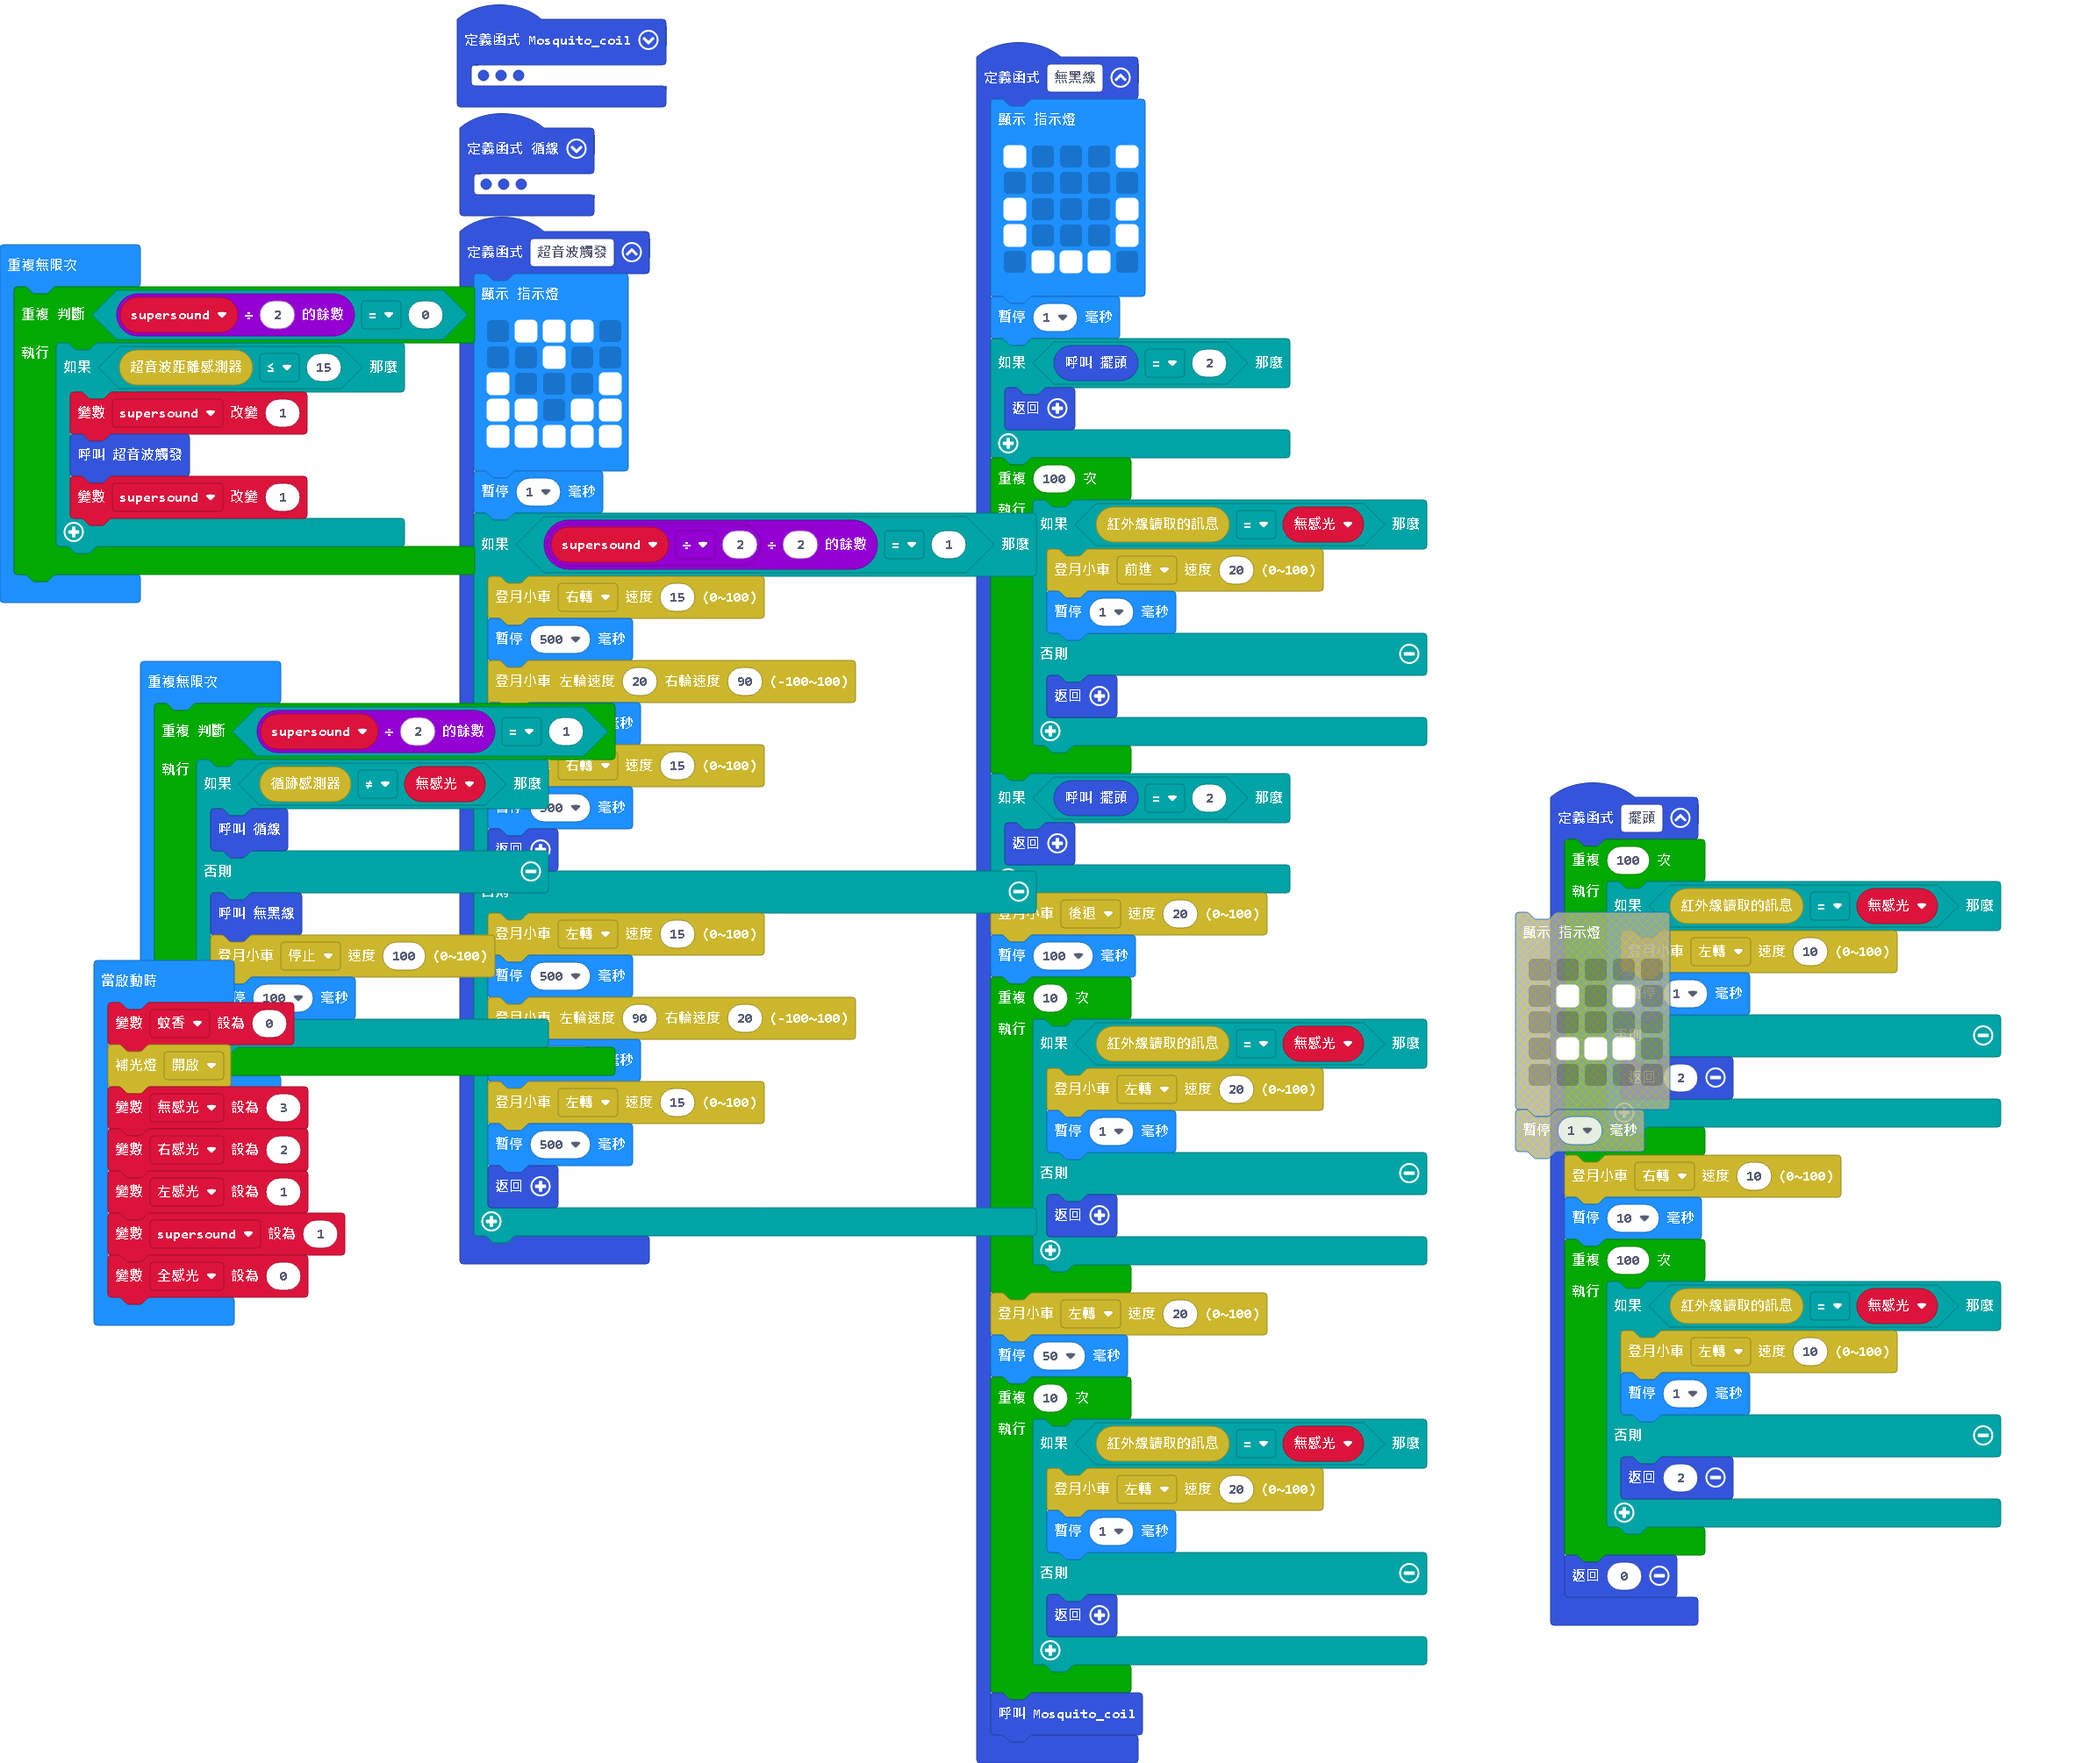
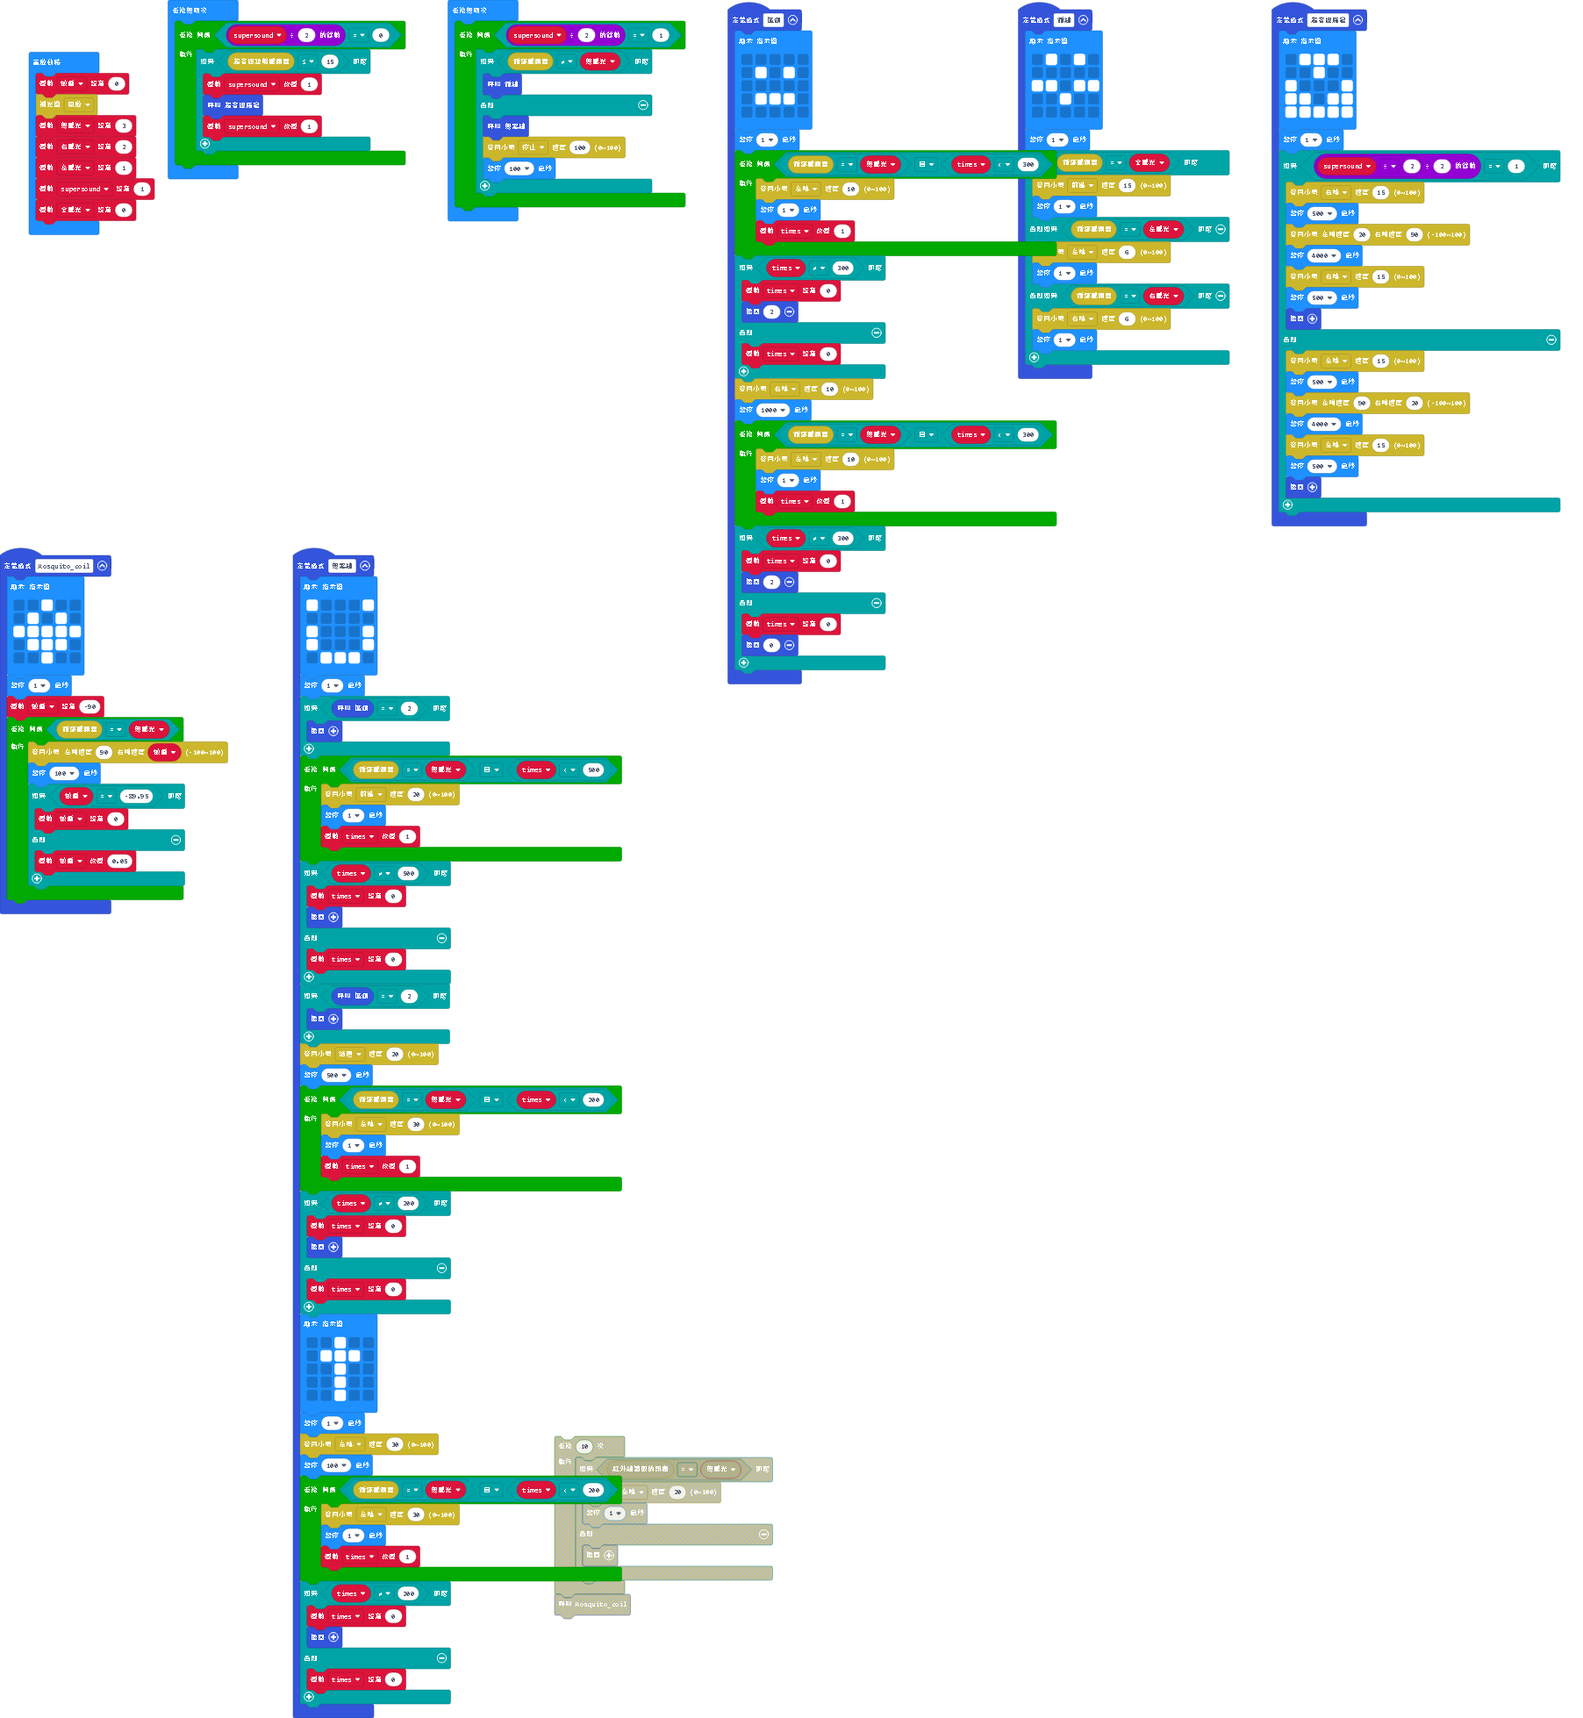
更新 main.blocks, main.ts, main.py

diff --git a/main.ts b/main.ts
@@ -1,23 +1,37 @@
 function 擺頭 () {
-    for (let index = 0; index < 100; index++) {
-        if (mooncar.IRRead() == 無感光) {
-            mooncar.MoonCarGo(mooncar.Direction.direct3, 10)
-            basic.pause(1)
-        } else {
-            return 2
-        }
+    basic.showLeds(`
+        . . . . .
+        . # . # .
+        . . . . .
+        . # # # .
+        . . . . .
+        `)
+    basic.pause(1)
+    while (mooncar.LineFollowerSensor() == 無感光 && times < 300) {
+        mooncar.MoonCarGo(mooncar.Direction.direct3, 10)
+        basic.pause(1)
+        times += 1
+    }
+    if (times != 300) {
+        times = 0
+        return 2
+    } else {
+        times = 0
     }
     mooncar.MoonCarGo(mooncar.Direction.direct4, 10)
-    basic.pause(10)
-    for (let index = 0; index < 100; index++) {
-        if (mooncar.IRRead() == 無感光) {
-            mooncar.MoonCarGo(mooncar.Direction.direct3, 10)
-            basic.pause(1)
-        } else {
-            return 2
-        }
+    basic.pause(1000)
+    while (mooncar.LineFollowerSensor() == 無感光 && times < 300) {
+        mooncar.MoonCarGo(mooncar.Direction.direct3, 10)
+        basic.pause(1)
+        times += 1
     }
-    return 0
+    if (times != 300) {
+        times = 0
+        return 2
+    } else {
+        times = 0
+        return 0
+    }
 }
 function 循線 () {
     basic.showLeds(`
@@ -98,39 +112,56 @@ function 無黑線 () {
     if (擺頭() == 2) {
         return
     }
-    for (let index = 0; index < 100; index++) {
-        if (mooncar.IRRead() == 無感光) {
-            mooncar.MoonCarGo(mooncar.Direction.direct1, 20)
-            basic.pause(1)
-        } else {
-            return
-        }
+    while (mooncar.LineFollowerSensor() == 無感光 && times < 500) {
+        mooncar.MoonCarGo(mooncar.Direction.direct1, 20)
+        basic.pause(1)
+        times += 1
+    }
+    if (times != 500) {
+        times = 0
+        return
+    } else {
+        times = 0
     }
     if (擺頭() == 2) {
         return
     }
     mooncar.MoonCarGo(mooncar.Direction.direct2, 20)
+    basic.pause(500)
+    while (mooncar.LineFollowerSensor() == 無感光 && times < 200) {
+        mooncar.MoonCarGo(mooncar.Direction.direct3, 30)
+        basic.pause(1)
+        times += 1
+    }
+    if (times != 200) {
+        times = 0
+        return
+    } else {
+        times = 0
+    }
+    basic.showLeds(`
+        . . # . .
+        . # # # .
+        . . # . .
+        . . # . .
+        . . # . .
+        `)
+    basic.pause(1)
+    mooncar.MoonCarGo(mooncar.Direction.direct3, 30)
     basic.pause(100)
-    for (let index = 0; index < 10; index++) {
-        if (mooncar.IRRead() == 無感光) {
-            mooncar.MoonCarGo(mooncar.Direction.direct3, 20)
-            basic.pause(1)
-        } else {
-            return
-        }
+    while (mooncar.LineFollowerSensor() == 無感光 && times < 200) {
+        mooncar.MoonCarGo(mooncar.Direction.direct3, 30)
+        basic.pause(1)
+        times += 1
     }
-    mooncar.MoonCarGo(mooncar.Direction.direct3, 20)
-    basic.pause(50)
-    for (let index = 0; index < 10; index++) {
-        if (mooncar.IRRead() == 無感光) {
-            mooncar.MoonCarGo(mooncar.Direction.direct3, 20)
-            basic.pause(1)
-        } else {
-            return
-        }
+    if (times != 200) {
+        times = 0
+        return
+    } else {
+        times = 0
     }
-    Mosquito_coil()
 }
+let times = 0
 let 全感光 = 0
 let supersound = 0
 let 左感光 = 0

diff --git a/main.py b/main.py
@@ -1,27 +1,24 @@
 def 擺頭():
-    basic.show_leds("""
-        . . . . .
-                . # . # .
-                . . . . .
-                . # # # .
-                . . . . .
-    """)
-    basic.pause(1)
-    for index in range(100):
-        if mooncar.ir_read() == 無感光:
-            mooncar.moon_car_go(mooncar.Direction.DIRECT3, 10)
-            basic.pause(1)
-        else:
-            return 2
+    global times
+    while mooncar.line_follower_sensor() == 無感光 and times < 100:
+        mooncar.moon_car_go(mooncar.Direction.DIRECT3, 10)
+        basic.pause(1)
+        times += 1
+    if times!=100:
+        return 2
+    else:
+        times=0
     mooncar.moon_car_go(mooncar.Direction.DIRECT4, 10)
-    basic.pause(10)
-    for index2 in range(100):
-        if mooncar.ir_read() == 無感光:
-            mooncar.moon_car_go(mooncar.Direction.DIRECT3, 10)
-            basic.pause(1)
-        else:
-            return 2
-    return 0
+    basic.pause(200)
+    while mooncar.line_follower_sensor() == 無感光 and times < 100:
+        mooncar.moon_car_go(mooncar.Direction.DIRECT3, 10)
+        basic.pause(1)
+        times += 1
+    if times!=100:
+        return 2
+    else:
+        times=0
+        return 0
 def 循線():
     basic.show_leds("""
         . # . # .
@@ -31,8 +28,6 @@ def 循線():
                 . . . . .
     """)
     basic.pause(1)
-    mooncar.moon_car_go(mooncar.Direction.DIRECT5, 100)
-    basic.pause(100)
     if mooncar.line_follower_sensor() == 全感光:
         mooncar.moon_car_go(mooncar.Direction.DIRECT1, 15)
         basic.pause(1)
@@ -50,6 +45,7 @@ def 超音波觸發():
                 # # . # #
                 # # # # #
     """)
+    basic.pause(1)
     if supersound / 2 % 2 == 1:
         mooncar.moon_car_go(mooncar.Direction.DIRECT4, 15)
         basic.pause(500)
@@ -95,7 +91,7 @@ def 無黑線():
     basic.pause(1)
     if 擺頭() == 2:
         return
-    for index3 in range(100):
+    for index in range(100):
         if mooncar.ir_read() == 無感光:
             mooncar.moon_car_go(mooncar.Direction.DIRECT1, 20)
             basic.pause(1)
@@ -105,7 +101,7 @@ def 無黑線():
         return
     mooncar.moon_car_go(mooncar.Direction.DIRECT2, 20)
     basic.pause(100)
-    for index4 in range(10):
+    for index2 in range(10):
         if mooncar.ir_read() == 無感光:
             mooncar.moon_car_go(mooncar.Direction.DIRECT3, 20)
             basic.pause(1)
@@ -113,13 +109,14 @@ def 無黑線():
             return
     mooncar.moon_car_go(mooncar.Direction.DIRECT3, 20)
     basic.pause(50)
-    for index5 in range(10):
+    for index3 in range(10):
         if mooncar.ir_read() == 無感光:
             mooncar.moon_car_go(mooncar.Direction.DIRECT3, 20)
             basic.pause(1)
         else:
             return
     Mosquito_coil()
+times = 0
 全感光 = 0
 supersound = 0
 左感光 = 0
@@ -136,10 +133,11 @@ supersound = 1
 
 def on_forever():
     global supersound
-    if mooncar.ultrasonic_sensor() <= 15:
-        supersound += 1
-        超音波觸發()
-        supersound += 1
+    while supersound % 2 == 0:
+        if mooncar.ultrasonic_sensor() <= 15:
+            supersound += 1
+            超音波觸發()
+            supersound += 1
 basic.forever(on_forever)
 
 def on_forever2():
@@ -148,4 +146,6 @@ def on_forever2():
             循線()
         else:
             無黑線()
+            mooncar.moon_car_go(mooncar.Direction.DIRECT5, 100)
+            basic.pause(100)
 basic.forever(on_forever2)
